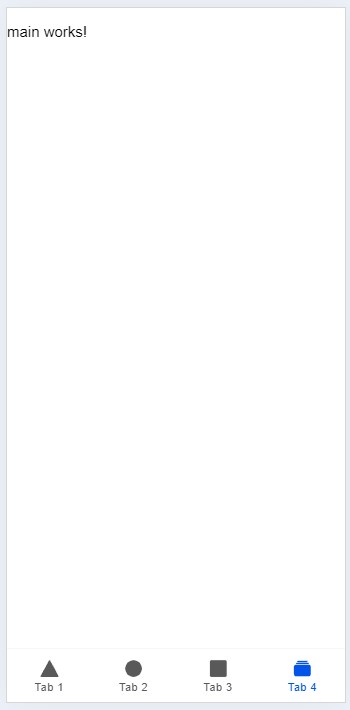
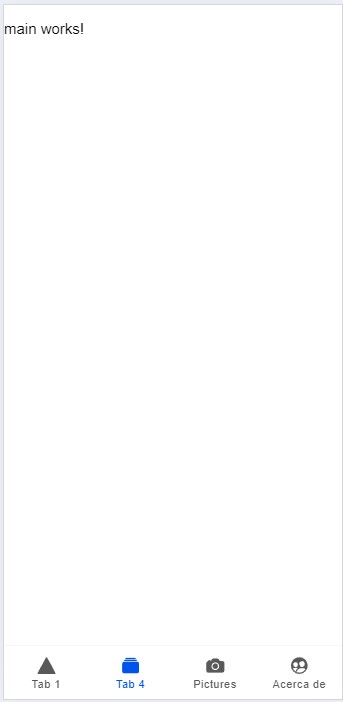
updated

Changed region(s): [[0.0, 0.0, 1.0, 1.0], [0.0, 0.0, 0.2624, 0.0598], [0.0, 0.8974, 0.0292, 0.9274]]

diff --git a/guias/2024/guia27.md b/guias/2024/guia27.md
@@ -55,6 +55,10 @@ Revise [Angular y Signals: Transformando el desarrollo web](https://www.viewnext
 		      <ion-label>Tab 4</ion-label>
 		    </ion-tab-button>
 
+		    <ion-tab-button tab="tab2" href="/tabs/tab2">
+		    	...
+		    </ion-tab-button>
+
 	  	</ion-tab-bar>
 	</ion-tabs>
 	```
@@ -68,6 +72,10 @@ Revise [Angular y Signals: Transformando el desarrollo web](https://www.viewnext
 			...
 			children: [
 				...
+				{
+					path: 'tab3'
+					...
+				},
 				{
 					path: 'tab4',
 					loadComponent: () =>
@@ -236,7 +244,7 @@ Revise [Angular y Signals: Transformando el desarrollo web](https://www.viewnext
 4. (STOP 4) Revise los cambios en el navegador
 
     <div align="center">
-      <img src="imagenes/ionic_modal.jpg">
+      <img src="imagenes/ionic_modalsworking.gif">
     </div>
 
 ### Documentación
